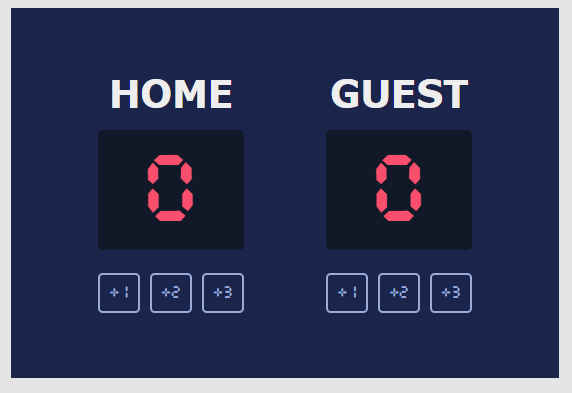
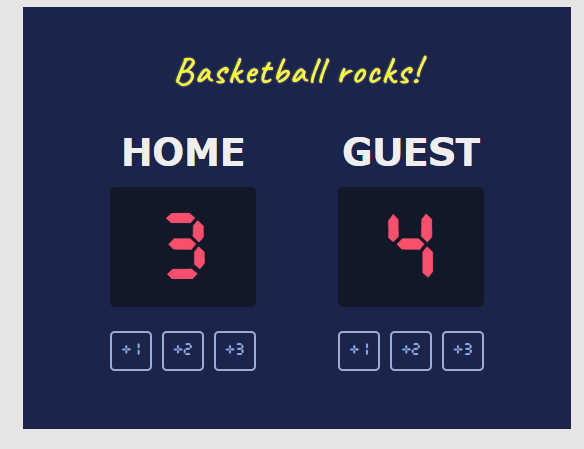
include message

diff --git a/index.css b/index.css
@@ -9,15 +9,28 @@ body {
   background: #e5e5e5;
   font-family: "Cursed Timer ULiL";
 }
-
-.container {
+.outer-container {
   display: flex;
+  flex-direction: column;
   width: 575px;
   height: 385px;
-  margin: 20px auto 0 auto;
-  justify-content: space-evenly;
+  margin: 20px auto auto;
   background: #1b244a;
   padding: 5px;
+  padding-bottom: 60px;
+}
+
+.message {
+  font-family: "Caveat", cursive;
+  color: #ffff00;
+  text-shadow: 0 0 2px white;
+  letter-spacing: 2px;
+  font-size: 40px;
+  text-align: center;
+}
+.container {
+  display: flex;
+  justify-content: space-evenly;
 }
 .home-guest {
   align-self: center;

diff --git a/index.html b/index.html
@@ -5,10 +5,14 @@
       href="https://cdnjs.cloudflare.com/ajax/libs/normalize/8.0.1/normalize.css"
     />
     <link rel="stylesheet" href="index.css" />
+    <link rel="preconnect" href="https://fonts.googleapis.com">
+<link rel="preconnect" href="https://fonts.gstatic.com" crossorigin>
+<link href="https://fonts.googleapis.com/css2?family=Caveat&display=swap" rel="stylesheet">
   </head>
   <body>
-    <div>
-    <div class="container">
+    <div class="outer-container">
+      <p class="message">Basketball rocks!</p>
+      <div class="container">
         
       <div class="home-guest">
         <h3>HOME</h3>
